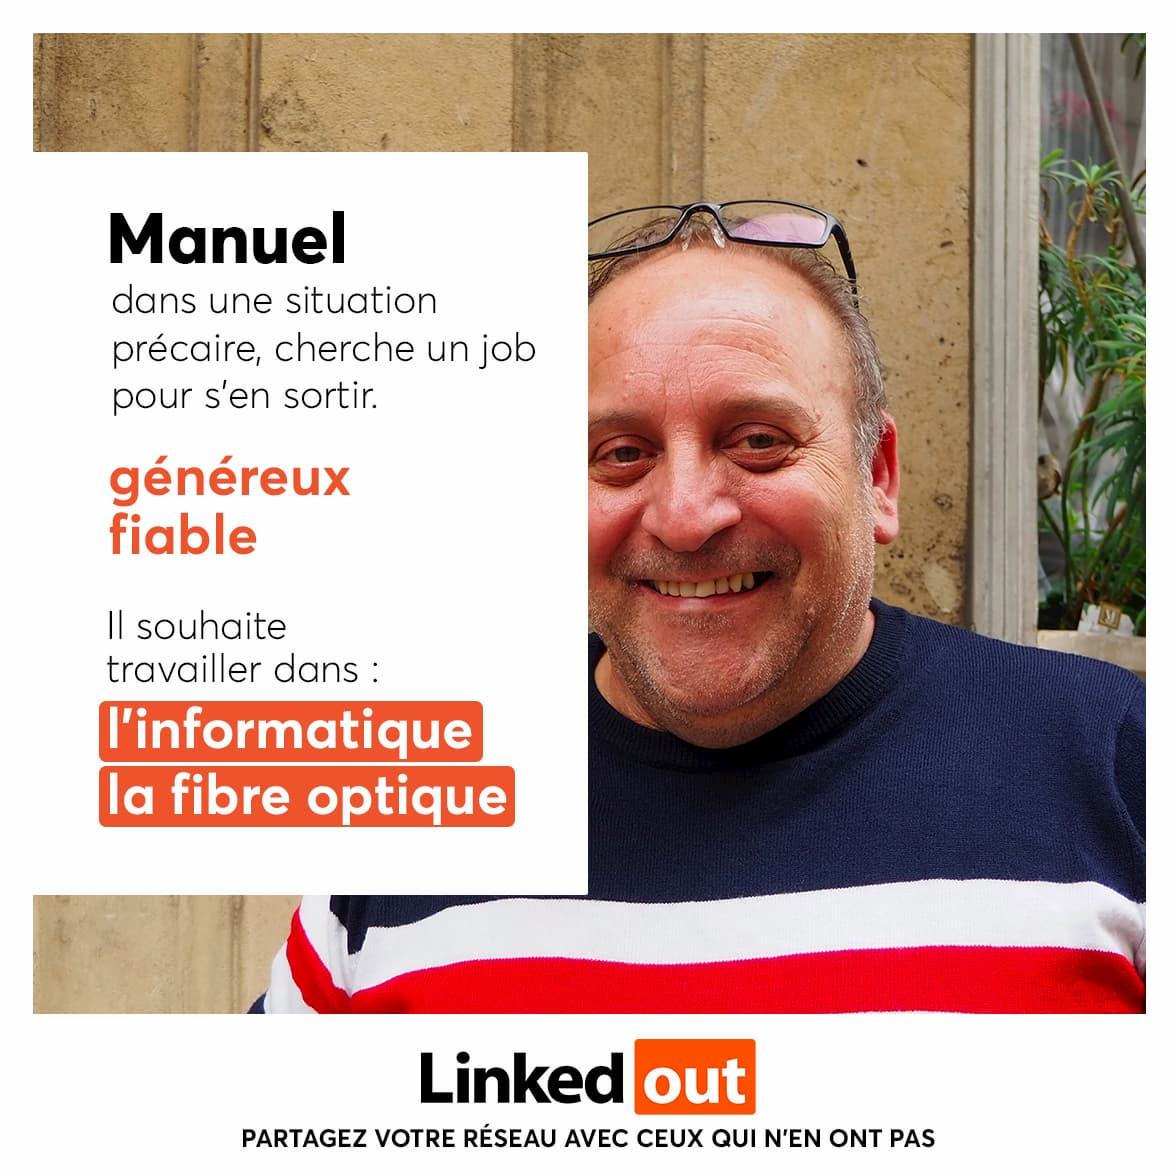
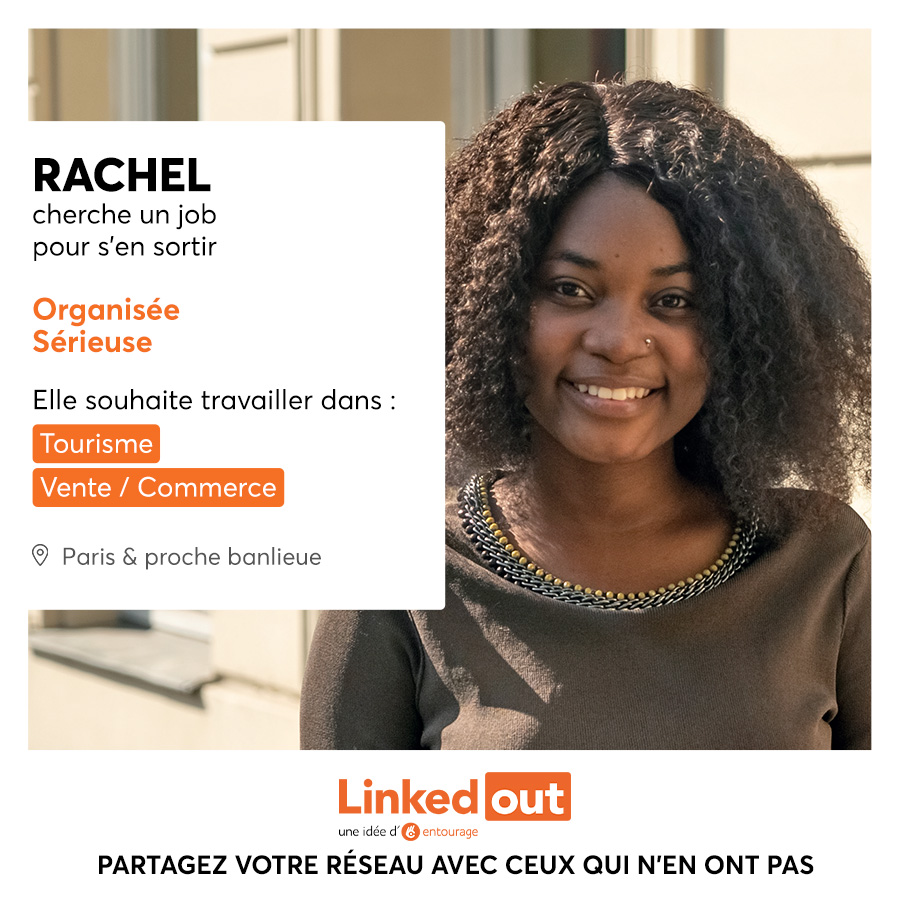
[EN-3566] fix(orientation page): fixes and updates

diff --git a/components/sections/HowToJoin.js b/components/sections/HowToJoin.js
@@ -1,25 +1,42 @@
 import React from 'react';
-import {IconNoSSR, Section} from '../utils';
-import Grid from "../utils/Grid";
-import Img from "../utils/Img";
+import { IconNoSSR, Section } from '../utils';
+import Grid from '../utils/Grid';
+import Img from '../utils/Img';
 
 const HowToJoin = () => {
   const content = [
     {
       img: '/static/img/id_card.png',
-      description: <div><span className="uk-text-bold">Carte Nationale d&apos;Identité</span> (ou carte résident avec autorisation de travail / titre de séjour)</div>,
+      description: (
+        <div>
+          <span className="uk-text-bold">Carte Nationale d&apos;Identité</span>{' '}
+          (ou carte résident avec autorisation de travail / titre de séjour)
+        </div>
+      ),
     },
     {
       img: '/static/img/domiciliation.png',
-      description: <div><span className="uk-text-bold">Domiciliation</span></div>,
+      description: (
+        <div>
+          <span className="uk-text-bold">Domiciliation</span>
+        </div>
+      ),
     },
     {
       img: '/static/img/bank.png',
-      description: <div><span className="uk-text-bold">Compte bancaire</span></div>,
+      description: (
+        <div>
+          <span className="uk-text-bold">Compte bancaire</span>
+        </div>
+      ),
     },
     {
       img: '/static/img/social_security.png',
-      description: <div><span className="uk-text-bold">Attestation de sécurité sociale</span></div>,
+      description: (
+        <div>
+          <span className="uk-text-bold">Attestation de Sécurité Sociale</span>
+        </div>
+      ),
     },
   ];
 
@@ -30,37 +47,49 @@ const HowToJoin = () => {
         <span className="uk-text-primary">LinkedOut&nbsp;?</span>
       </h2>
       <h3 className="uk-align-center uk-text-center">
-        Vous êtes en démarche d’insertion professionnelle et motivé(e) pour être acteur de votre recherche&nbsp;!
+        Vous êtes en démarche d’insertion professionnelle et motivé(e) pour être
+        acteur de votre recherche&nbsp;!
       </h3>
-      <p className="uk-width-large uk-margin-large-bottom uk-margin-large-top">Vous rassemblez les éléments suivants, nécessaires à l’obtention d’un contrat de travail&nbsp;:</p>
+      <p className="uk-width-large uk-margin-large-bottom uk-margin-large-top">
+        Vous rassemblez les éléments suivants, nécessaires à l’obtention d’un
+        contrat de travail&nbsp;:
+      </p>
       <Grid
         childWidths={[`1-${content.length}@m`]}
         match
         gap="medium"
-        items={content.map(({img, description}, index) => {
+        items={content.map(({ img, description }, index) => {
           return (
-            <div key={index.toString()} className="uk-flex uk-flex-column uk-flex-middle">
+            <div
+              key={index.toString()}
+              className="uk-flex uk-flex-column uk-flex-middle"
+            >
               <div className="uk-height-small uk-flex uk-flex-bottom uk-flex-center uk-margin-small-bottom uk-padding-small">
-                <Img src={img} width="" height="" alt="" className="uk-height-max-small"/>
+                <Img
+                  src={img}
+                  width=""
+                  height=""
+                  alt=""
+                  className="uk-height-max-small"
+                />
               </div>
               <div className="uk-flex uk-flex-top">
-                <div className="uk-text-primary"><IconNoSSR name="triangle-right" />&nbsp;</div>
-                <div className="uk-flex-1">
-                  {description}
+                <div className="uk-text-primary">
+                  <IconNoSSR name="triangle-right" />
+                  &nbsp;
                 </div>
+                <div className="uk-flex-1">{description}</div>
               </div>
             </div>
           );
-        })}/>
+        })}
+      />
     </Section>
   );
 };
 
-HowToJoin.propTypes = {
+HowToJoin.propTypes = {};
 
-};
-
-HowToJoin.defaultProps = {
-};
+HowToJoin.defaultProps = {};
 
 export default HowToJoin;

diff --git a/pages/orienter.js b/pages/orienter.js
@@ -3,7 +3,7 @@
 import React from 'react';
 import Partners from '../components/partials/Partners';
 import CandidateTestimoniesOrientation from '../components/sections/CandidateTestimoniesOrientation';
-import { CONTACT_INFO } from '../constants';
+import { CONTACT_INFO, EXTERNAL_LINKS } from '../constants';
 import WhoFor from '../components/sections/WhoFor';
 import WhatItBringsToCandidates from '../components/sections/WhatItBringsToCandidates';
 import Layout from '../components/Layout';
@@ -86,22 +86,37 @@ const Orienter = () => {
         }
         fontSize="small"
         text={
-          <div className="uk-flex uk-flex-column uk-flex-center uk-flex-middle">
+          <span className="uk-text-center">
             Nous lançons une prochaine promotion en mai 2021{' '}
             <span className="uk-text-bold">
               dédiées aux jeunes (18 à 25 ans issus de l&apos;Aide Sociale à
               l&apos;Enfance ou en situation de précarite) résidants dans le 75,
               93 et 92.
+            </span>{' '}
+            Cette promotion se lance en collaboration avec l&apos;association{' '}
+            <span className="uk-text-bold">
+              <SimpleLink
+                isExternal
+                target="_blank"
+                href={EXTERNAL_LINKS.REPAIRS_75}
+              >
+                Repairs! - le réseau d’entraide après l’ASE
+              </SimpleLink>
             </span>
-            Cette promotion se lance en collaboration avec Repair 75 spécialisée
-            dans l’accompagnement des jeunes issus de l’ASE.
+            , spécialisée dans l’accompagnement des jeunes issus de l’aide
+            sociale à l&apos;enfance.
+            <br />
+            <br />
+            <span className="uk-text-primary uk-text-bold">
+              Les inscriptions sont ouvertes&nbsp;!
+            </span>
             <br />
             <br />
             <span className="uk-text-bold">
               Vous accompagnez un jeune qui rentre dans ces critères, motivé
               pour travailler et disponible pour participer au programme&nbsp;?
             </span>
-          </div>
+          </span>
         }
         button={{
           label: ' Orienter un candidat',

diff --git a/components/sections/WhatItBringsToCandidates.js b/components/sections/WhatItBringsToCandidates.js
@@ -18,19 +18,6 @@ const WhatItBringsToCandidates = () => {
     {
       description: (
         <div>
-          <span className="uk-text-bold">
-            Le site internet <SimpleLink href="/">www.linkedout.fr</SimpleLink>
-          </span>{' '}
-          qui permet de partager ces CV à grande échelle sur les réseaux sociaux
-          pour générer des opportunités d’emploi et de permettre aux entreprises
-          d’envoyer leurs offres
-        </div>
-      ),
-      img: '/static/img/orientation_2.jpg',
-    },
-    {
-      description: (
-        <div>
           <span className="uk-text-bold">Une nouvelle forme de CV</span> qui met
           l’accent sur l’humain et qui valorise le parcours et les qualités de
           la personne.
@@ -42,10 +29,23 @@ const WhatItBringsToCandidates = () => {
       description: (
         <div>
           <span className="uk-text-bold">
+            Le site internet <SimpleLink href="/">www.linkedout.fr</SimpleLink>
+          </span>{' '}
+          qui permet de partager ces CV à grande échelle sur les réseaux sociaux
+          pour générer des opportunités d’emploi et permettre aux entreprises
+          d’envoyer leurs offres
+        </div>
+      ),
+      img: '/static/img/orientation_2.jpg',
+    },
+    {
+      description: (
+        <div>
+          <span className="uk-text-bold">
             Des événements de convivialité et de remobilisation collectifs
           </span>
-          , qui s’appuient sur la communauté Entourage. Mais aussi des
-          formations courtes à la carte en lien avec nos partenaires.
+          , qui s’appuient sur la communauté Entourage et des formations courtes
+          à la carte en lien avec nos partenaires.
         </div>
       ),
       img: '/static/img/orientation_4.jpg',

diff --git a/components/sections/WhoFor.js b/components/sections/WhoFor.js
@@ -32,7 +32,7 @@ const WhoFor = () => {
             Être éligibles à un contrat de travail en France{' '}
           </span>
           (pièce d’identité / autorisation de travail, domiciliation, compte
-          bancaire, attestation de Sécurité sociale)
+          bancaire, attestation de Sécurité Sociale)
         </div>
       ),
     },
@@ -55,7 +55,7 @@ const WhoFor = () => {
       fontSize="small"
       title={
         <>
-          <span className="uk-text-primary">À qui</span> s&apos;addresse
+          <span className="uk-text-primary">À qui</span> s&apos;adresse
           LinkedOut&nbsp;?
         </>
       }
@@ -71,7 +71,7 @@ const WhoFor = () => {
             trouver du travail par leurs propres moyens.
           </div>
           <Img
-            src="../static/img/candidats.jpg"
+            src="../static/img/new_candidates.jpg"
             alt="Candidats LinkedOut"
             className="uk-padding-large uk-padding-remove-vertical uk-margin-medium-top"
           />
@@ -81,7 +81,7 @@ const WhoFor = () => {
     >
       <div className="uk-flex uk-flex-column uk-flex-center uk-flex-middle">
         <h3 className="uk-text-bold uk-align-center uk-text-center uk-margin-large-bottom uk-margin-remove-top">
-          Quelques critères essentiels pour intégrer le dispositif ?
+          Quelques critères essentiels pour intégrer le dispositif&nbsp;:
         </h3>
         <MultipleCTA
           data={content}

diff --git a/components/sections/CandidateTestimoniesOrientation.js b/components/sections/CandidateTestimoniesOrientation.js
@@ -8,7 +8,7 @@ const testimonies = [
     image: '/static/img/temoignage-candidat-jordan.jpg',
     author: 'Jordan',
     quote:
-      "C'est une équipe joyeuse, qui donne de la joie, l'envie de se battre jusqu'au bout. Les personnes que j'ai rencontré ne m'ont pas fait ressentir qu’on était différent, une impression de proximité.",
+      "C'est une équipe joyeuse, qui donne de la joie, l'envie de se battre jusqu'au bout. Les personnes que j'ai rencontré ne m'ont pas fait ressentir qu’on était différent.",
   },
   {
     image: '/static/img/temoignage-candidat-danny.jpg',
@@ -20,7 +20,7 @@ const testimonies = [
     image: '/static/img/temoignage-candidat-amelie.jpg',
     author: 'Amélie',
     quote:
-      "C'est vraiment un bon dispositif. On est pas tout seul. Avec ma bénévole coach, on ne parle pas simplement du travail, elle me donne des conseils. Je n’ai pas de famille ici, c'est des choses dont j'avais besoin. J'ai parcouru beaucoup les missions locales et d'autres dispositif et là c'est différent, vous êtes là.",
+      "C'est vraiment un bon dispositif. Nous ne sommes pas tout seul. Avec ma Coach, on ne parle pas simplement du travail, elle me donne des conseils. Je n’ai pas de famille ici, c'est des choses dont j'avais besoin. J'ai parcouru beaucoup les missions locales et d'autres dispositif et là c'est différent, vous êtes là.",
   },
   {
     image: '/static/img/temoignage-candidat-lamin.jpg',

diff --git a/constants/index.js b/constants/index.js
@@ -233,6 +233,7 @@ const EXTERNAL_LINKS = {
   CAMPUS_INCLUSION: 'https://campus-inclusion.fr',
   FRANCE_UNE_CHANCE:
     'https://lafrance-unechance.fr/carte-des-clubs-la-france-une-chance/',
+  REPAIRS_75: 'https://www.repairs75.org/',
 };
 
 const NEWSLETTER_ORIGINS = {
@@ -265,9 +266,7 @@ const JOBS = {
     INSERT_AIRTABLE: 'insert_airtable',
     UPDATE_AIRTABLE: 'update_airtable',
   },
-  QUEUES: {
-    WORK: 'work',
-  },
+  QUEUES: { WORK: 'work' },
 };
 
 const SOCKETS = {
@@ -286,9 +285,7 @@ const AIRTABLE_NAMES = {
   OFFERS: "Offres d'emploi v2",
 };
 
-const VALUES = {
-  SHARES: 120000,
-};
+const VALUES = { SHARES: 120000 };
 
 const CONTACT_INFO = {
   CORPORATE_CONTACT: 'entreprises@linkedout.fr',

diff --git a/components/partials/Partners.js b/components/partials/Partners.js
@@ -108,12 +108,8 @@ const Partners = ({ showOrientationPartners }) => {
   );
 };
 
-Partners.propTypes = {
-  showOrientationPartners: PropTypes.bool,
-};
+Partners.propTypes = { showOrientationPartners: PropTypes.bool };
 
-Partners.defaultProps = {
-  showOrientationPartners: false,
-};
+Partners.defaultProps = { showOrientationPartners: false };
 
 export default Partners;

diff --git a/components/sections/HowItWorks.js b/components/sections/HowItWorks.js
@@ -61,12 +61,8 @@ const HowItWorks = ({ style }) => {
   );
 };
 
-HowItWorks.propTypes = {
-  style: PropTypes.string,
-};
+HowItWorks.propTypes = { style: PropTypes.string };
 
-HowItWorks.defaultProps = {
-  style: 'muted',
-};
+HowItWorks.defaultProps = { style: 'muted' };
 
 export default HowItWorks;

diff --git a/constants/partners.js b/constants/partners.js
@@ -149,6 +149,14 @@ export default {
   ],
   orientation: [
     {
+      key: 'ares',
+      link: 'http://www.groupeares.fr/',
+    },
+    {
+      key: 'repairs',
+      link: 'https://www.repairs75.org/',
+    },
+    {
       key: 'aurore',
       link: 'https://aurore.asso.fr',
     },
